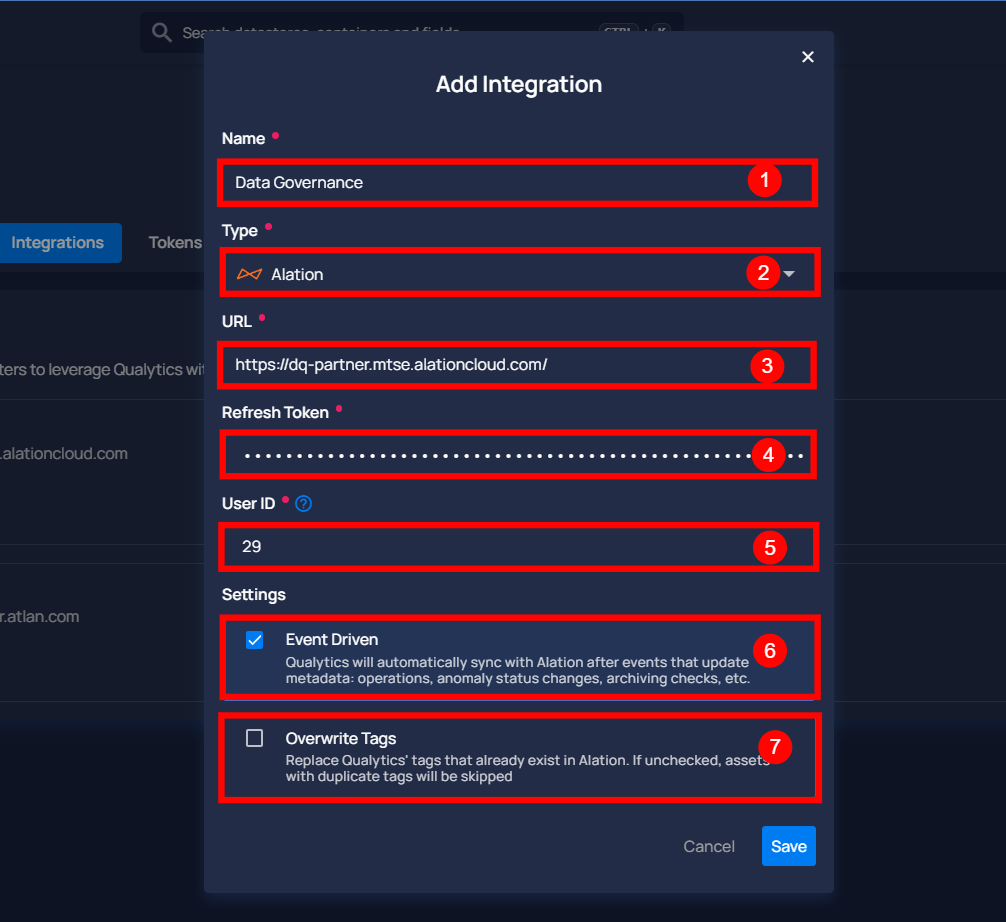
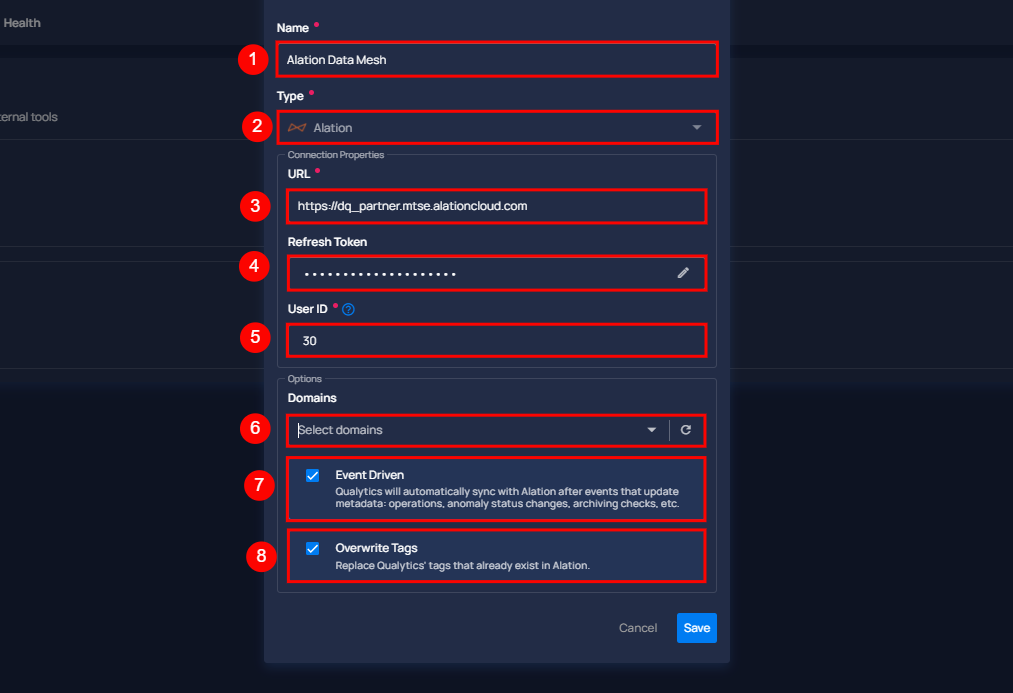
Sc-18784: Update "Alation" file as per latest release.

diff --git a/docs/settings/integrations/alation.md b/docs/settings/integrations/alation.md
@@ -62,16 +62,18 @@ Before setting up Alation Integration in Qualytics, you have to generate a Refre
 
 |REF.|FIELDS |ACTIONS|
 | ---| ----- | ----- |
-| 1. |Name (Required)| Provide a name for the integration. |
-| 2. | URL (Required) | Enter the full address of the Alation instance, for example,  https://instance.alationcloud.com. |
-| 3. | Refresh Token (Required) | Enter the refresh token required to access the Alation API. |
-| 4. | User ID (Required) | Provide the user ID associated with the generated token. |
-| 5. | Event Driven | If enabled, operations, archiving anomalies, and checks will activate the integration sync. |
-| 6. | Overwrite Tags | If enabled, Alation tags will override Qualytics tags in cases of conflicts (when tags with the same name exist on both platforms). |
+| 1. |Name (Required)| Provide a name for the integration. |
+| 2. | Type (Required) | Choose the type of integration from the dropdown menu. Currently, 'Atlan' is selected |
+| 3. | URL (Required) | Enter the full address of the Alation instance, for example,  https://instance.alationcloud.com. |
+| 4. | Refresh Token (Required) | Enter the refresh token required to access the Alation API. |
+| 5. | User ID (Required) | Provide the user ID associated with the generated token. |
+| 6. | Domains | Select specific domains to filter assets for synchronization. <br>- Acts as a filtering mechanism to sync specific assets <br>- Uses domain information from the data catalog (e.g. Sales ). Only assets under the selected domains will synchronize.|
+| 7. | Event Driven | If enabled, operations, archiving anomalies, and checks will activate the integration sync. |
+| 8. | Overwrite Tags | If enabled, Alation tags will override Qualytics tags in cases of conflicts (when tags with the same name exist on both platforms). |
 
 **Step 5:** Click on the **Save** button to integrate Alation with Qualytics. 
 
-![save-integration](../../assets/integrations/alation/qualytics-add-integration-save-light-13.png#only-light)
+![save-integration](../../assets/integrations/alation/qualytics-add-integration-save-light-12.png#only-light)
 ![save-integration](../../assets/integrations/alation/qualytics-add-integration-save-dark-12.png#only-dark)
 
 **Step 6:** Here you can view the **new integration** appearing in Qualytics.
